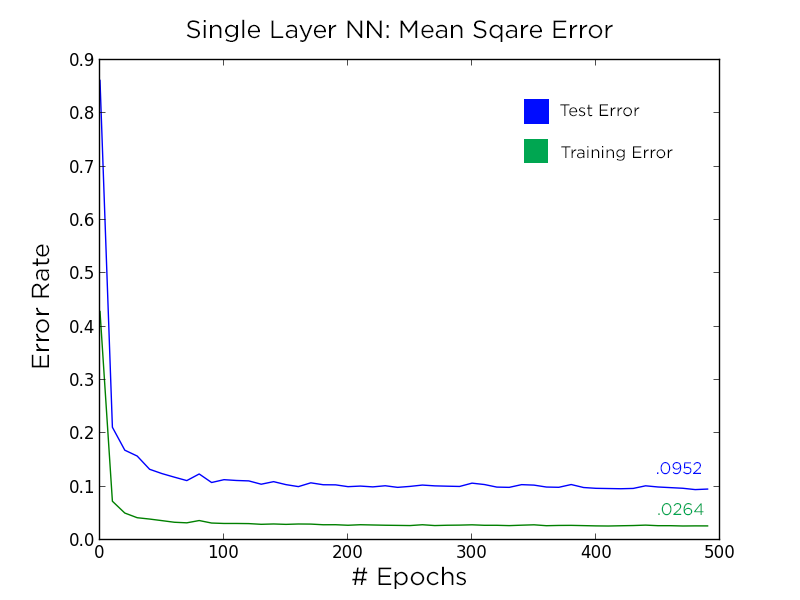
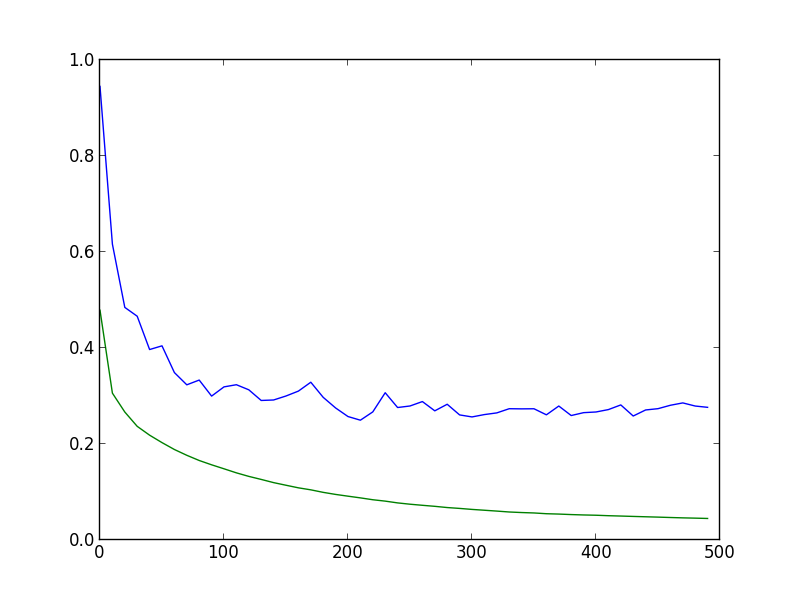
cross entropy error

diff --git a/hw6.py b/hw6.py
@@ -6,17 +6,35 @@ import sys, traceback, pdb
 import matplotlib.pyplot as plt
 from math import *
 
-def train_single_layer(images, labels, t_images, t_labels, isMeanSquare, epochs):
+def train_single_layer_ms(images, labels, t_images, t_labels, epochs):
   """
   train a single layer neural network
-  (mean square error)
+  using mean square error
   """
+  #preprocessing specific to mean square
+  means = np.average(images, 1).reshape(784, 1)
+  images = np.subtract(images, means)
+  stds = np.std(images, 1)
+  for col in range(0, images.shape[0]):
+    column = images[col, :]
+    if stds[col] != 0.0:
+      column = column / stds[col]
+    images[col, :] = column
+
+  means = np.average(t_images, 1).reshape(784, 1)
+  stds = np.std(t_images, 1)
+  for col in range(0, t_images.shape[0]):
+    column = t_images[col, :]
+    if stds[col] != 0.0:
+      column = column / stds[col]
+    t_images[col, :] = column
+
   # for graphing
   train_errors = []
   test_errors = []
   eps = []
 
-  alpha = .008
+  alpha = .08
   images_t = images.transpose()
 
   #convert labels to 10 dimensional vector
@@ -27,11 +45,11 @@ def train_single_layer(images, labels, t_images, t_labels, isMeanSquare, epochs)
     t[i] = t_k
   t = t.transpose()
 
-  #initialize weights to be +- ~10^-5
-  W = np.random.rand(784, 10) * .00002
-  bias = np.random.rand(1,10) * .002
+  #initialize weights
+  W = np.random.rand(784, 10) * 2
+  bias = np.random.rand(1,10) * .2
   bias = bias - .001
-  W = W - .00001
+  W = W - 1
 
   for e in range(0, epochs):
     # take a mini batch
@@ -44,24 +62,22 @@ def train_single_layer(images, labels, t_images, t_labels, isMeanSquare, epochs)
     #forward pass
     W_t = W.transpose()
     S = np.add(np.dot(W_t, images_batch),bias.transpose())
-    g_S = 1 / (1 + np.exp(-S))
+    g_S = 1.0 / (1.0 + np.exp(-S))
 
     #calculate error every 10 epochs
     if e % 10 == 0:
       #training error
       temp = np.add(np.dot(W_t, images), bias.transpose())
       temp = 1/ (1 + np.exp(-temp))
-      temp = temp > .5
-      if isMeanSquare:
-        temp = np.power(temp - t,  2)
-        error = .1 * temp.sum()
-
-      error = error/ 60000
+      #output = np.argmax(temp, 0)
+      error = np.power(t - temp, 2)
+      error = .1 * error.sum()
+      error = error/ 60000.0
       train_errors.append(error)
       
       #test error
-      t_error = np.add(np.dot(W.transpose(), t_images), bias.transpose())
-      t_g_S = 1 / (1 + np.exp(-t_error))
+      t_S = np.add(np.dot(W_t, t_images), bias.transpose())
+      t_g_S = 1.0 / (1.0 + np.exp(-t_S))
       t_output = np.argmax(t_g_S, 0)
       error_rate = np.not_equal(t_output, t_labels)
       error_rate = error_rate.sum()
@@ -72,16 +88,106 @@ def train_single_layer(images, labels, t_images, t_labels, isMeanSquare, epochs)
       print 'error at epoch ', e, 'is: ', error
 
     #backwards pass
-    if isMeanSquare:
-      delta = (g_S - t_batch) * (1 - g_S)
-    else:
-      delta = (g_S - t_batch)
+    delta = (g_S - t_batch) * g_S * (1.0 - g_S)
     a = alpha / pow(e + 1, .3)
     #update
     W = W - a * np.dot(images_batch, delta.transpose())
     bias = bias - a * delta.sum(1)
 
-  plt.plot(eps, train_errors, 'g', eps, test_errors, 'b')
+  plt.plot(eps, train_errors, 'g')
+  plt.show()
+  return W, bias
+
+def train_single_layer_ce(images, labels, t_images, t_labels, epochs):
+  """
+  train a single layer neural network
+  using cross entropy error
+  """
+
+  means = np.average(images, 0).reshape(1, 60000)
+  images = np.subtract(images, means)
+  stds = np.std(images, 0)
+  for col in range(0, images.shape[1]):
+    column = images[:, col]
+    if stds[col] != 0.0:
+      column = column / stds[col]
+    images[:, col] = column
+
+
+  means = np.average(t_images, 0).reshape(1, 10000)
+  stds = np.std(t_images,0)
+  for col in range(0, t_images.shape[1]):
+    column = t_images[:, col]
+    if stds[col] != 0.0:
+      column = column / stds[col]
+    t_images[:, col] = column
+  # for graphing
+  train_errors = []
+  test_errors = []
+  eps = []
+
+  alpha = .007
+  images_t = images.transpose()
+
+  #convert labels to 10 dimensional vector
+  t = np.zeros([60000, 10])
+  for i in range(0, 60000):
+    t_k = np.zeros(10)
+    t_k[labels[i]] = 1
+    t[i] = t_k
+  t = t.transpose()
+
+  #initialize weights
+  W = np.random.rand(784, 10) * .002
+  bias = np.random.rand(1,10) * .2
+  bias = bias - .001
+  W = W - .001
+
+  for e in range(0, epochs):
+    # take a mini batch
+    sample = np.arange(60000)
+    np.random.shuffle(sample)
+    sample = sample[0:200]
+    t_batch = t[:, sample]
+    images_batch = images[:, sample]
+    
+    #forward pass
+    W_t = W.transpose()
+    S = np.add(np.dot(W_t, images_batch),bias.transpose())
+    g_S = 1.0 / (1.0 + np.exp(-S))
+
+    #calculate error every 10 epochs
+    if e % 10 == 0:
+      #training error
+      temp = np.add(np.dot(W_t, images), bias.transpose())
+      y = 1/ (1 + np.exp(-temp))
+      temp = t * np.log(y + .00000000000001) + (1.0-t) * np.log(1.0 - y + .00000000000001) # log + small value
+      #output = np.argmax(y, 0)
+      #error = np.not_equal(output, labels)
+      error = -.1 * temp.sum()
+      error = error / 60000.0
+      train_errors.append(error)
+      
+      #test error
+      t_S = np.add(np.dot(W_t, t_images), bias.transpose())
+      t_g_S = 1.0 / (1.0 + np.exp(-t_S))
+      t_output = np.argmax(t_g_S, 0)
+      error_rate = np.not_equal(t_output, t_labels)
+      error_rate = error_rate.sum()
+      error_rate = error_rate / 10000.0
+      test_errors.append(error_rate)
+      eps.append(e)
+
+      print 'error at epoch ', e, 'is: ', error
+
+    #backwards pass
+    delta = (g_S - t_batch) 
+    a = alpha / pow(e + 1, .38)
+    #update
+    W = W - a * np.dot(images_batch, delta.transpose())
+    bias = bias - a * delta.sum(1)
+
+  plt.plot(eps, train_errors, 'g')
   plt.show()
   return W, bias
 
@@ -108,11 +214,9 @@ def main():
   labels = training['labels']
   images = images[0][0]
   images = images.reshape(28*28, 60000)
-  for col in range(0, images.shape[1]):
-    column = images[:, col]
-    column = column - np.average(column)
-    column = column / np.std(column)
-    images[:, col] = column
+  images = images.astype(float)
+
+
   labels = labels[0][0]
   labels = labels.flatten()
 
@@ -122,15 +226,13 @@ def main():
   test_labels = test['labels']
   test_images = test_images[0][0]
   test_images = test_images.reshape(28*28, 10000)
-  for col in range(0, test_images.shape[1]):
-    column = test_images[:, col]
-    column = column - np.average(column)
-    column = column / np.std(column)
-    test_images[:, col] = column
+  test_images = test_images.astype(float)
+
+
   test_labels = test_labels[0][0]
   test_labels = test_labels.flatten()
 
-  W, bias = train_single_layer(images,labels, test_images, test_labels, True, 800)
+  W, bias = train_single_layer_ce(images,labels, test_images, test_labels, 500)
   g_S, output = predict_single_layer(test_images, test_labels, W, bias)
 
   code.interact(local = locals())
